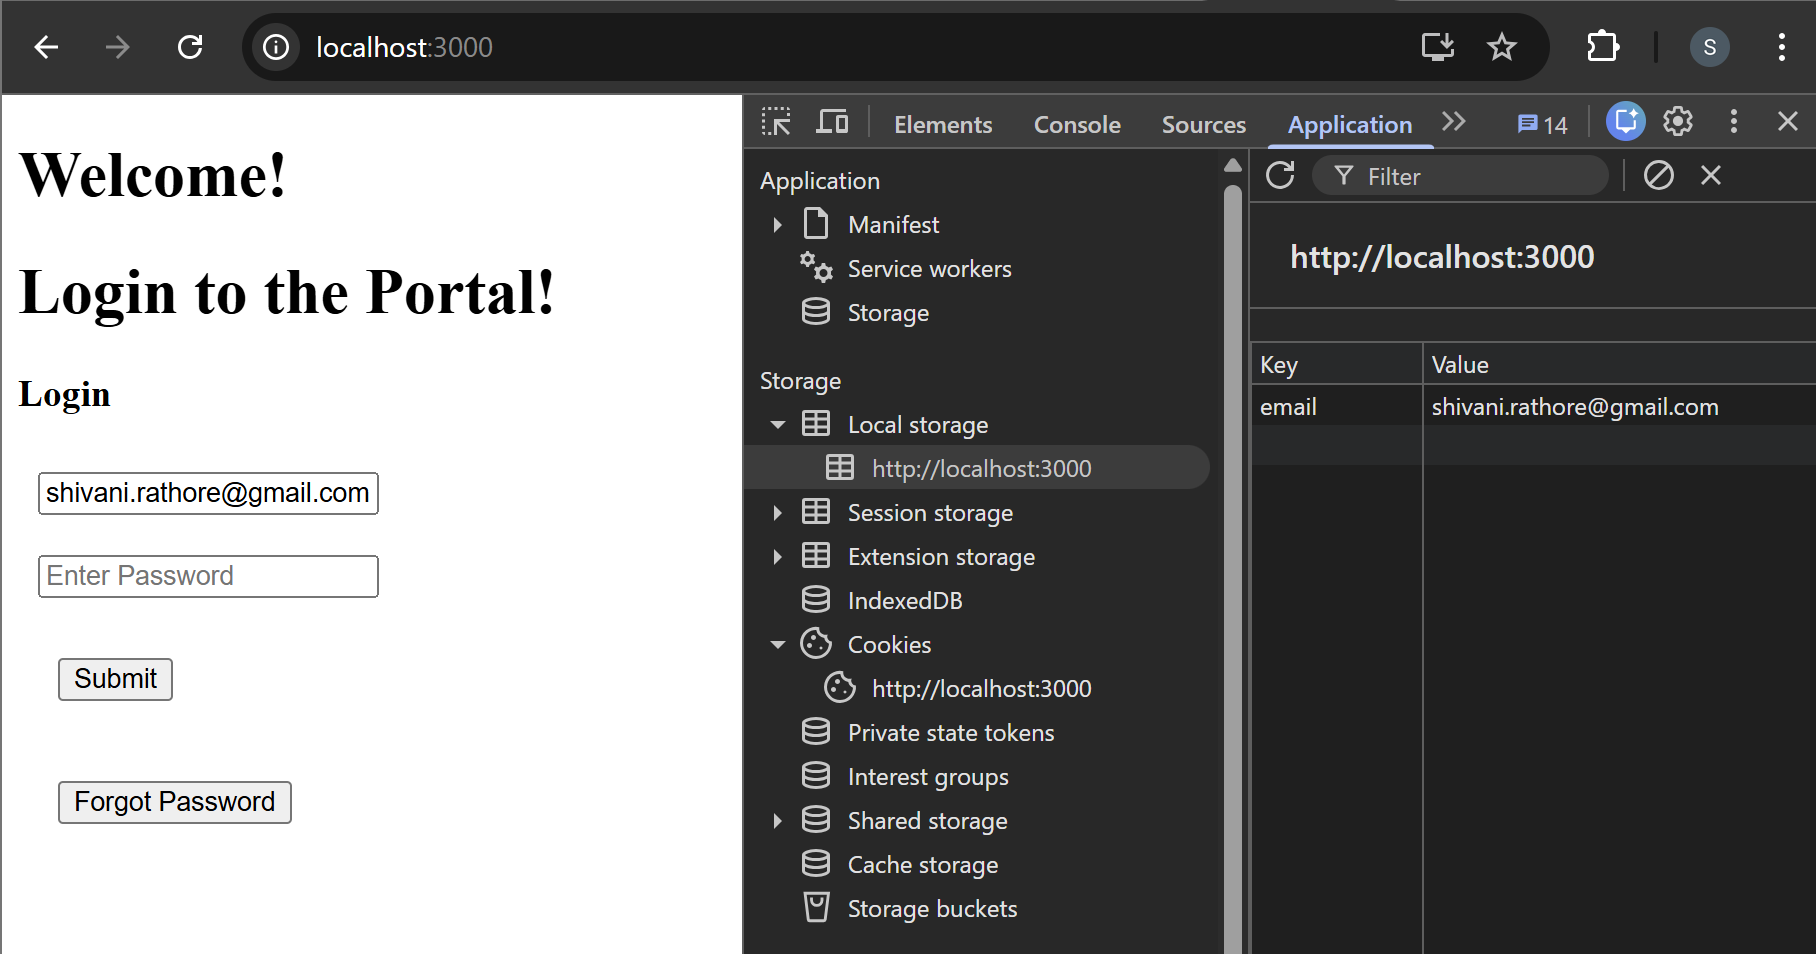
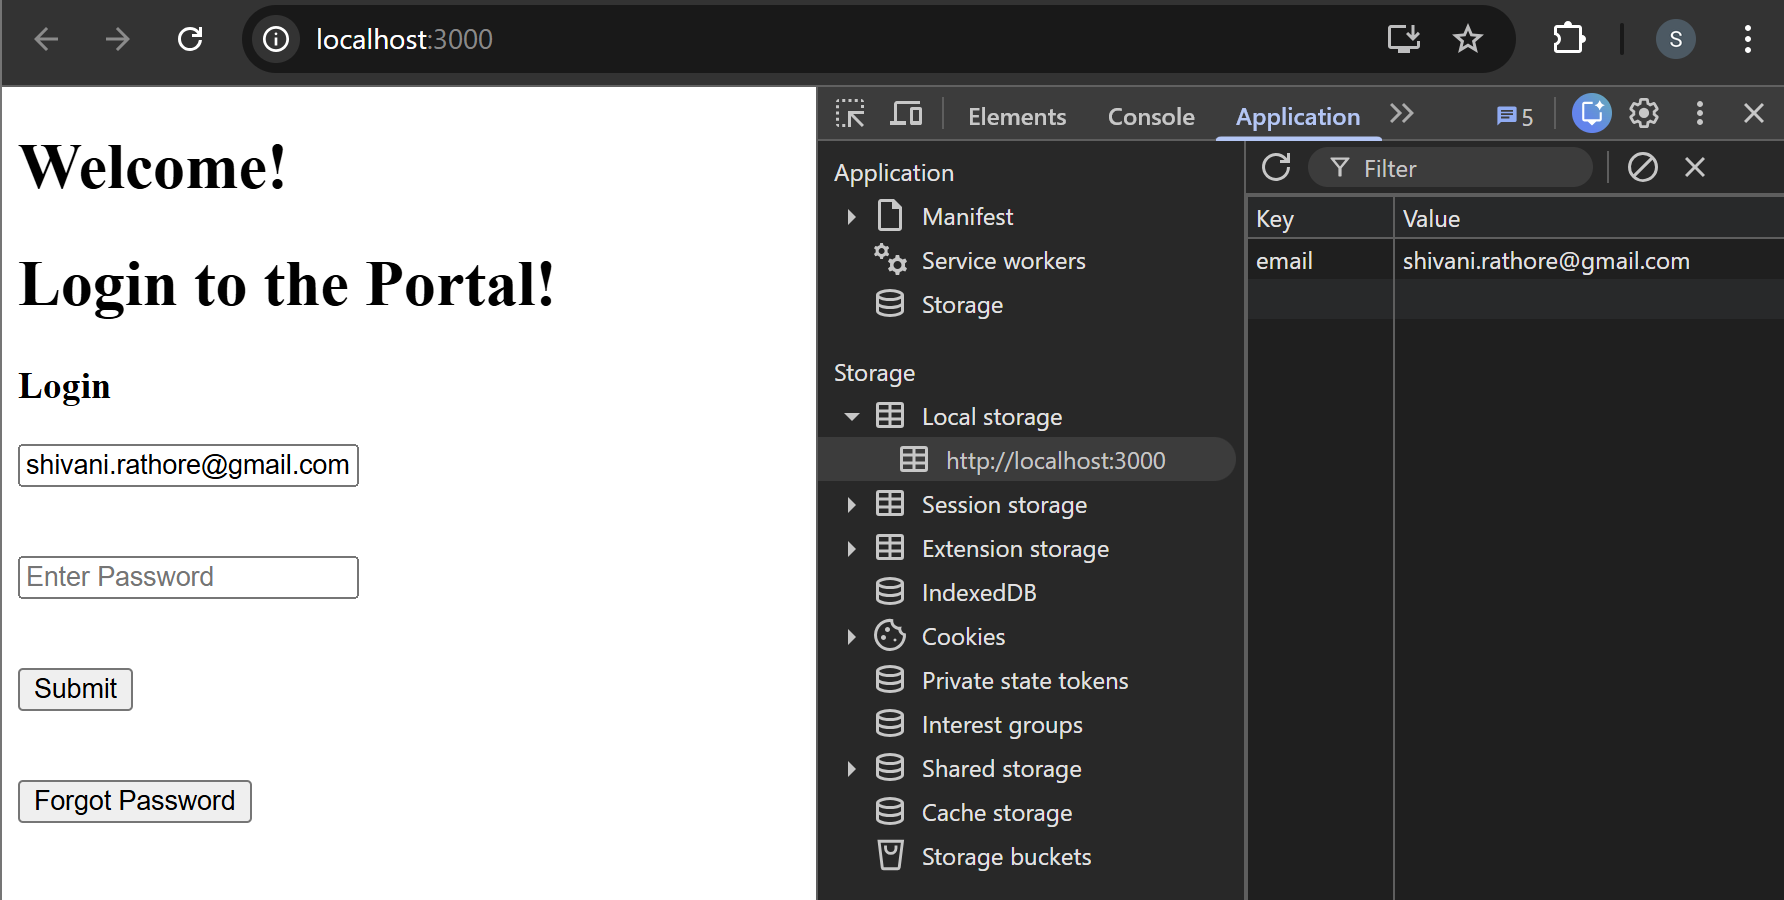
Added: Implementing Custom Hooks

diff --git a/Blogging App/src/Components/ResetPassword.js b/Blogging App/src/Components/ResetPassword.js
@@ -1,22 +1,25 @@
-import { useEffect, useState } from "react";
+//import { useEffect, useState } from "react";
+import useLocalStorage from "./useLocalStorage";
 
 export default function Reset() {
-  const [email, setEmail] = useState("");
+  //const [email, setEmail] = useState("");
 
-  useEffect(() => {
-    let email = localStorage.getItem("email");
-    if (email) {
-      setEmail(email);
-    }
-  }, []);
+  // useEffect(() => {
+  //   let email = localStorage.getItem("email");
+  //   if (email) {
+  //     setEmail(email);
+  //   }
+  // }, []);
 
-  useEffect(() => {
-    localStorage.setItem("email", email);
-  }, [email]);
+  // useEffect(() => {
+  //   localStorage.setItem("email", email);
+  // }, [email]);
+
+  const { email, setEmail } = useLocalStorage();
 
   return (
     <>
-      <h3>Reset Password for</h3>
+      <h3>Reset Password for:</h3>
       <input
         placeholder="Enter Email"
         value={email}

diff --git a/Blogging App/src/Components/LoginPage.js b/Blogging App/src/Components/LoginPage.js
@@ -1,19 +1,21 @@
-import { useState, useEffect } from "react";
+import { useState} from "react";
+import useLocalStorage from "./useLocalStorage";
 
 export default function Login() {
-  const [email, setEmail] = useState("");
+  //const [email, setEmail] = useState("");
   const [password, setPassword] = useState("");
+  const { email, setEmail } = useLocalStorage();
 
-  useEffect(() => {
-    let email = localStorage.getItem("email");
-    if (email) {
-      setEmail(email);
-    }
-  }, []);
+  // useEffect(() => {
+  //   let email = localStorage.getItem("email");
+  //   if (email) {
+  //     setEmail(email);
+  //   }
+  // }, []);
 
-  useEffect(() => {
-    localStorage.setItem("email", email);
-  }, [email]);
+  // useEffect(() => {
+  //   localStorage.setItem("email", email);
+  // }, [email]);
 
   return (
     <>

diff --git a/Blogging App/src/Components/useLocalStorage.js b/Blogging App/src/Components/useLocalStorage.js
@@ -1,0 +1,18 @@
+import { useState, useEffect } from "react";
+
+export default function useLocalStorage() {
+  const [email, setEmail] = useState("");
+
+  useEffect(() => {
+    let email = localStorage.getItem("email");
+    if (email) {
+      setEmail(email);
+    }
+  }, []);
+
+  useEffect(() => {
+    localStorage.setItem("email", email);
+  }, [email]);
+
+  return { email, setEmail };
+}

diff --git a/Blogging App/src/index.css b/Blogging App/src/index.css
@@ -96,9 +96,13 @@ background: linear-gradient(to left, #565318, #3C464E); */
   font-family: sans-serif;
   text-align: center;
 }
+
 button {
-  margin: 20px;
+  margin: 8px 0;
+  display: block;
 }
+
 input {
-  margin: 10px;
+  margin: 8px 0;
+  display: block;
 }

diff --git a/Blogging App/docs/REACT-HOOKS-II.md b/Blogging App/docs/REACT-HOOKS-II.md
@@ -967,3 +967,208 @@ The hooks are placed in this order to maintain the correct **data flow between s
 <img src="../images/reset-page1.png" alt="Reset Page" width="650" height="auto">
 <img src="../images/reset-page2.png" alt="Reset Page" width="650" height="auto">
 <img src="../images/login-page2.png" alt="Login Page" width="650" height="auto">
+
+## Implementing Custom Hooks
+
+### useLocalStorage.js
+
+```jsx
+import { useState, useEffect } from "react";
+
+export default function useLocalStorage() {
+  const [email, setEmail] = useState("");
+
+  useEffect(() => {
+    let email = localStorage.getItem("email");
+    if (email) {
+      setEmail(email);
+    }
+  }, []);
+
+  useEffect(() => {
+    localStorage.setItem("email", email);
+  }, [email]);
+
+  return { email, setEmail };
+}
+```
+
+#### Created `useLocalStorage` Custom Hook
+
+- A new custom hook `useLocalStorage` was created to centralize the localStorage logic.
+- Purpose:
+  - Handles both retrieving and storing email in localStorage.
+  - Prevents repeating the same `useEffect` logic in multiple components.
+- What it does:
+  - Retrieves the saved email from `localStorage` when the component mounts.
+  - Updates `localStorage` whenever the email state changes.
+  - Returns `email` and `setEmail` so components can use them.
+
+### LoginPage.js
+
+```jsx
+import { useState } from "react";
+import useLocalStorage from "./useLocalStorage";
+
+export default function Login() {
+  //const [email, setEmail] = useState("");
+  const [password, setPassword] = useState("");
+  const { email, setEmail } = useLocalStorage();
+
+  // useEffect(() => {
+  //   let email = localStorage.getItem("email");
+  //   if (email) {
+  //     setEmail(email);
+  //   }
+  // }, []);
+
+  // useEffect(() => {
+  //   localStorage.setItem("email", email);
+  // }, [email]);
+
+  return (
+    <>
+      <h1>Login to the Portal!</h1>
+      <h3>Login</h3>
+      <input
+        placeholder="Enter Email"
+        value={email}
+        onChange={(e) => {
+          setEmail(e.target.value);
+        }}
+      />
+      <br />
+      <input
+        placeholder="Enter Password"
+        type="password"
+        value={password}
+        onChange={(e) => {
+          setPassword(e.target.value);
+        }}
+      />
+      <br />
+      <button
+        onClick={() => {
+          console.log("Form submitted");
+        }}
+      >
+        Submit
+      </button>
+      <br />
+    </>
+  );
+}
+```
+
+#### Changes in Login.js
+
+- Before:
+  - `Login` managed its own:
+    - `email` state
+    - `useEffect` for retrieving email
+    - `useEffect` for storing email
+
+- After:
+  - The localStorage logic was removed from the component.
+  - `useLocalStorage` hook is imported and used instead.
+- Result:
+  - `Login` now simply uses:
+    - `email`
+    - `setEmail`
+  - The component becomes cleaner and easier to maintain.
+
+### ResetPassword.js
+
+```jsx
+//import { useEffect, useState } from "react";
+import useLocalStorage from "./useLocalStorage";
+
+export default function Reset() {
+  //const [email, setEmail] = useState("");
+
+  // useEffect(() => {
+  //   let email = localStorage.getItem("email");
+  //   if (email) {
+  //     setEmail(email);
+  //   }
+  // }, []);
+
+  // useEffect(() => {
+  //   localStorage.setItem("email", email);
+  // }, [email]);
+
+  const { email, setEmail } = useLocalStorage();
+
+  return (
+    <>
+      <h3>Reset Password for:</h3>
+      <input
+        placeholder="Enter Email"
+        value={email}
+        onChange={(e) => {
+          setEmail(e.target.value);
+        }}
+      />
+      <br />
+      <button
+        onClick={() => {
+          // Logic to send a new password follows
+        }}
+      >
+        Submit
+      </button>
+      <br />
+    </>
+  );
+}
+```
+
+#### Changes in Reset.js
+
+- Before:
+  - `Reset` also had its own:
+    - `email` state
+    - `localStorage` useEffect hooks.
+- After:
+  - These were removed.
+  - The component now uses the same `useLocalStorage` hook.
+- Result:
+  - Both `Login` and `Reset` share the same localStorage logic.
+
+### Overall Benefit
+
+- Removes duplicate code.
+- Makes components simpler and more readable.
+- Ensures consistent localStorage behavior across components.
+- Follows React's custom hook pattern for reusable logic.
+
+### Summary
+
+We have discussed the advantages of using hooks in functional components instead
+of relying on class-based lifecycle methods. The three main hooks covered were
+`useState`, `useEffect`, and `useReducer`, with useState used for state management,
+useEffect for handling side effects, and useReducer for more complex state
+management. These hooks are a newer addition to React and make managing
+stateful logic in functional components easier.
+
+## Summarising it
+
+Let’s summarise what we have learned in this Lecture:
+
+- What are hooks?
+- Motivation to use hooks.
+- Rules of hooks.
+- Order of hooks.
+- State in function and class based components.
+- The useState hook and usage
+- The useEffect hook and usage
+- The useReducer hook and usage
+- Custom hooks in React
+
+### Some References:
+
+[Lifecycle methods vs Hooks in React](https://medium.com/crossml/react-lifecycle-methods-vs-hooks-6acf5e049f64)
+
+[Hooks in React](https://react.dev/reference/react#state-hooks)
+
+[Custom hooks](https://react.dev/learn/reusing-logic-with-custom-hooks)
